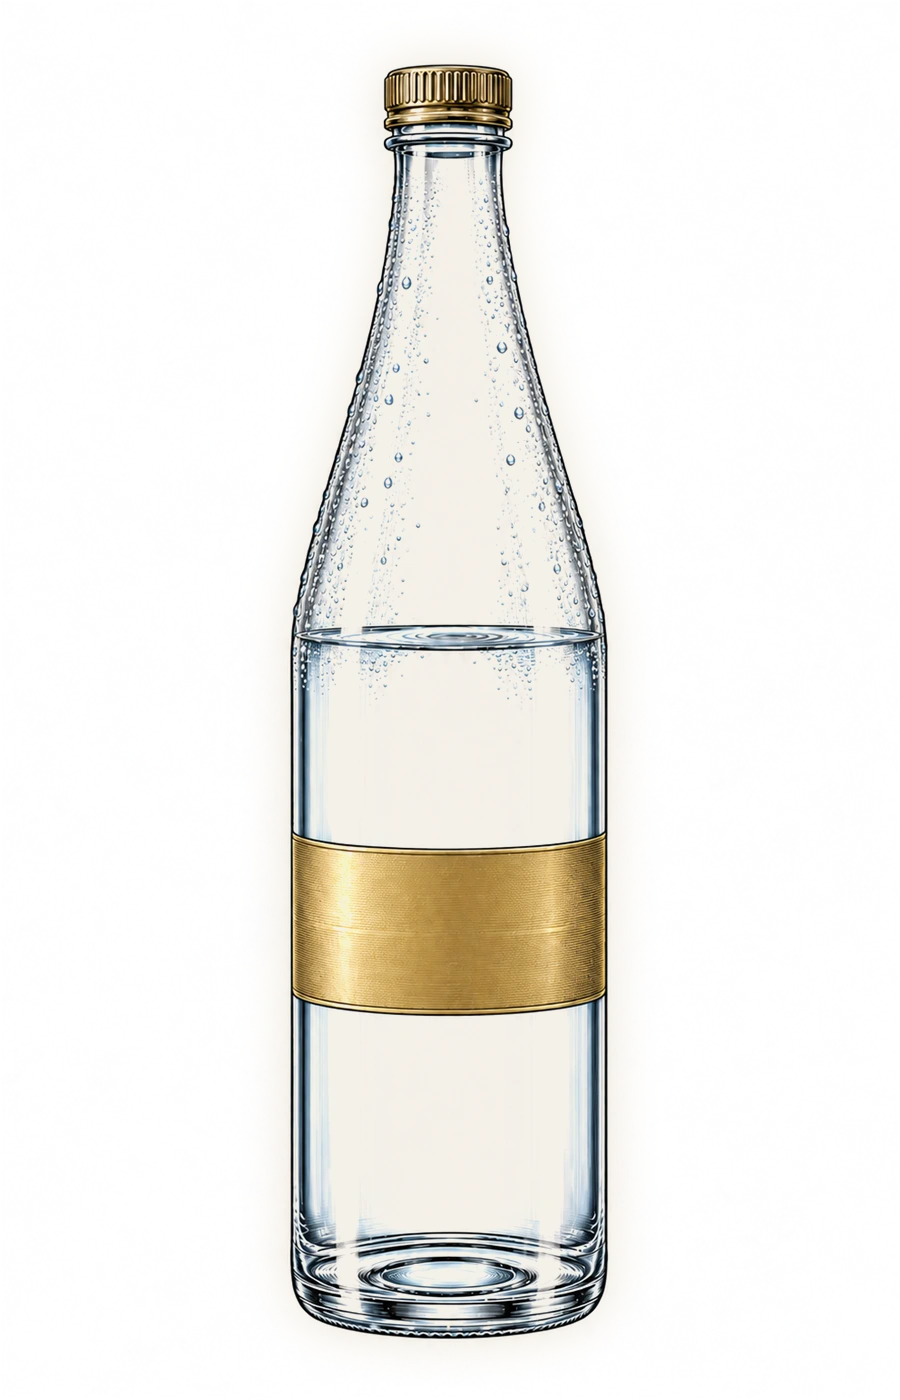
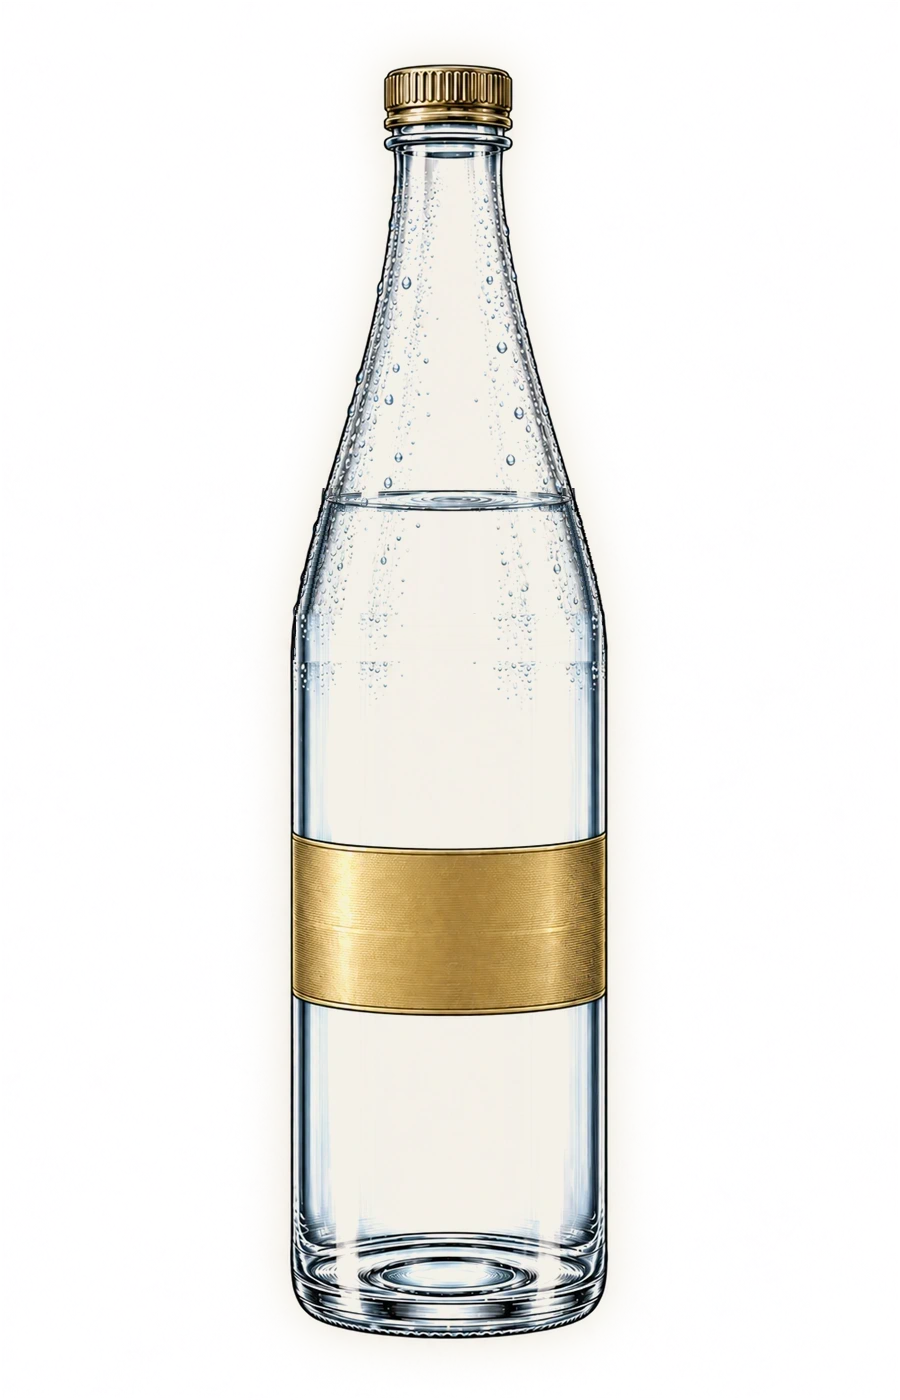
АЯРА: разные переходы, врезки, финал в небе

Changed region(s): [[0.3111, 0.3379, 0.6844, 0.4914]]

diff --git a/js/main.js b/js/main.js
@@ -37,12 +37,17 @@ window.GI_BRAND = {
 
   /* ---------- путь в гору: кадры друг над другом, камера поднимается по прокрутке ---------- */
   // мир в долях ширины кадра: x 0..1 слева направо, y снизу вверх. Кадры снизу вверх, на стыках облака.
-  var FH = 941 / 1672, GAP = 0.12;
+  var FH = 941 / 1672, GAP = 0.2;
   var FRAMES = [2, 4, 3, 5, 6].map(function (n, i) { return { n: n, y: i * (FH + GAP) }; });   // y — низ кадра
-  var TH = FRAMES.length * FH + (FRAMES.length - 1) * GAP;
-  var CLOUDS = FRAMES.slice(1).map(function (f, i) {         // на стыке: центр, ширина с запасом за края
-    return { y: f.y - GAP / 2, w: 1.24, h: 1.24 / 3 * 0.8, k: i % 3, flip: i % 2 === 1 };
+  var SKY = 0.75;                                       // чистое небо над источником — там финал
+  var TH = FRAMES.length * FH + (FRAMES.length - 1) * GAP + SKY;
+  // на стыках разные переходы (нарисовал Кодекс): скала с тропой, туман, скала, скала с водопадом от источника;
+  // над источником — облако, за ним небо с финалом. par — насколько быстрее горы едет при подъёме (ближе к камере)
+  var SEAMS = ["seam-1", "seam-2", "seam-3", "seam-4"];
+  var CLOUDS = FRAMES.slice(1).map(function (f, i) {
+    return { y: f.y - GAP / 2, w: 1.12, h: 1.12 / 3 * 0.9, src: SEAMS[i], par: i === 1 ? 0.12 : 0.05, flow: i === 3 };
   });
+  CLOUDS.push({ y: FRAMES[FRAMES.length - 1].y + FH + 0.04, w: 1.24, h: 1.24 / 3 * 0.8, src: "cloud-2", par: 0.18, flip: true });   // вход в небо
   // остановки: f — кадр, x, y — точка кадра в центре экрана (доли, y сверху), h — сколько высоты мира в кадре;
   // k — подпись и врезка (data-key), 0 — первый экран. Между остановками камера идёт сквозь облака, не стоит.
   var KEYS = [
@@ -51,15 +56,17 @@ window.GI_BRAND = {
     { f: 1, x: 0.57, y: 0.45, h: 0.5, k: 2 },
     { f: 2, x: 0.56, y: 0.45, h: 0.47, k: 3 },
     { f: 3, x: 0.55, y: 0.52, h: 0.5, k: 4 },
-    { f: 4, x: 0.5, y: 0.5, h: FH, k: 5 }
+    { f: 4, x: 0.5, y: 0.5, h: FH, k: 5 },
+    { sky: 1, k: 6 }
   ];
   var KEYS_PHONE = [
     { f: 0, x: 0.55, y: 0.5, h: 0.54, k: 0 },
     { f: 0, x: 0.58, y: 0.42, h: 0.46, k: 1 },
     { f: 1, x: 0.63, y: 0.45, h: 0.5, k: 2 },
-    { f: 2, x: 0.47, y: 0.36, h: 0.5, k: 3 },
+    { f: 2, x: 0.47, y: 0.3, h: 0.5, k: 3 },
     { f: 3, x: 0.55, y: 0.55, h: 0.52, k: 4 },
-    { f: 4, x: 0.38, y: 0.6, h: 0.52, k: 5 }
+    { f: 4, x: 0.38, y: 0.6, h: 0.52, k: 5 },
+    { sky: 1, k: 6 }
   ];
   var STEP = 1.3;                                       // экранов прокрутки между остановками
   var U = 1000;                                         // px на единицу мира в DOM-слое (дальше масштабирует transform)
@@ -68,7 +75,7 @@ window.GI_BRAND = {
   var worlds = tower.querySelectorAll(".tower__world");
   var hero = tower.querySelector(".hero");
   var hint = tower.querySelector(".scroll-hint");
-  var caps = Array.prototype.slice.call(tower.querySelectorAll(".cap[data-key], .inset[data-key]"));
+  var caps = Array.prototype.slice.call(tower.querySelectorAll(".cap[data-key], .inset[data-key], .final[data-key]"));
   var insets = Array.prototype.slice.call(tower.querySelectorAll(".inset"));
   var narrow = window.matchMedia("(max-width: 700px)");
   var cam = { x: 0.5, y: FH / 2, h: FH, w: 1, vy: 0 };
@@ -87,7 +94,7 @@ window.GI_BRAND = {
   CLOUDS.forEach(function (c) {
     var im = document.createElement("img");
     im.className = "tower__cloud";
-    im.src = "assets/cloud-" + (c.k + 1) + ".webp"; im.alt = ""; im.decoding = "async";
+    im.src = "assets/" + c.src + ".webp"; im.alt = ""; im.decoding = "async";
     im.style.cssText = "left:" + (0.5 - c.w / 2) * U + "px;top:" + top(c.y + c.h / 2) + "px;width:" + c.w * U + "px;height:" + c.h * U + "px" + (c.flip ? ";transform:scaleX(-1)" : "");
     worlds[0].appendChild(im);
   });
@@ -102,7 +109,10 @@ window.GI_BRAND = {
   function cr(a, b, c, d, t) {
     return b + 0.5 * t * (c - a + t * (2 * a - 5 * b + 4 * c - d + t * (3 * (b - c) + d - a)));
   }
-  function world(k) { var f = FRAMES[k.f]; return { x: k.x, y: f.y + (1 - k.y) * FH, h: k.h }; }
+  function world(k) {
+    if (k.sky) return { x: 0.5, y: TH - FH / 2, h: FH };
+    var f = FRAMES[k.f]; return { x: k.x, y: f.y + (1 - k.y) * FH, h: k.h };
+  }
   function target(keys, f) {                            // f — 0..n-1, место в прокрутке в «остановках»
     var n = keys.length, i = clamp(Math.floor(f), 0, n - 2), t = clamp(f - i, 0, 1);
     t = t + 0.35 * (t * t * (3 - 2 * t) - t);           // у подписи чуть медленнее, но не стоп
@@ -116,7 +126,7 @@ window.GI_BRAND = {
     // врезки: картинка кадра крупно, нужная точка — в центре рамки
     insets.forEach(function (el) {
       var at = el.getAttribute("data-at").split(",").map(Number), i = el.firstChild;
-      var w = el.clientWidth, h = el.clientHeight, iw = w * at[2], ih = iw * FH;
+      var w = el.clientWidth, h = el.clientHeight, iw = w * at[2], ih = iw * 0.75;   // врезки 4:3, как рамка
       i.style.backgroundImage = "url(" + el.getAttribute("data-src") + ")";
       i.style.width = iw + "px"; i.style.height = ih + "px";
       i.style.left = clamp(w / 2 - at[0] * iw, w - iw, 0) + "px";
@@ -164,16 +174,13 @@ window.GI_BRAND = {
     step(now);
   }
 
-  /* ---------- финал появляется по мере прокрутки ---------- */
-  function setupReveal() {
-    if (!final) return;
-    if (reduce || !("IntersectionObserver" in window)) { final.classList.add("is-in"); return; }
-    var io = new IntersectionObserver(function (entries) {
-      if (entries[0].isIntersecting) { final.classList.add("is-in"); io.disconnect(); }
-    }, { threshold: 0.4 });
-    io.observe(final);
-  }
-  var final = document.querySelector(".final");
+  /* ---------- ссылки «к бутылке»: финал внутри закреплённого экрана — прокручиваем до конца подъёма ---------- */
+  Array.prototype.forEach.call(document.querySelectorAll('a[href="#final"]'), function (a) {
+    a.addEventListener("click", function (e) {
+      e.preventDefault();
+      window.scrollTo({ top: tower.offsetTop + tower.offsetHeight - window.innerHeight, behavior: reduce ? "auto" : "smooth" });
+    });
+  });
 
   /* ---------- шапка: бумажная после первого экрана, прячется при прокрутке вниз ---------- */
   var bar = document.querySelector(".topbar"), lastY = window.scrollY;
@@ -206,7 +213,6 @@ window.GI_BRAND = {
   /* ---------- запуск ---------- */
   applyBrand();
   Array.prototype.forEach.call(document.querySelectorAll(".bottle"), setupBottle);
-  setupReveal();
   layout();
   step(performance.now());                              // первый экран сразу на месте, не ждём кадра
   narrow.addEventListener ? narrow.addEventListener("change", layout) : narrow.addListener(layout);

diff --git a/index.html b/index.html
@@ -60,35 +60,37 @@
       <p class="cap" data-key="4">Палка осталась на&nbsp;камне.<br> Вниз он шёл налегке.</p>
       <p class="cap cap--brand cap--r" data-key="5"><span data-brand>АЯРА</span>.<br> Пей и&nbsp;иди легче.</p>
 
-      <!-- врезки крупным планом, как в комиксе: кадр, точка (доли кадра), увеличение -->
-      <div class="inset" data-key="1" data-src="assets/scene-02.webp" data-at=".585,.22,3.2" aria-hidden="true"><i></i></div>
-      <div class="inset" data-key="2" data-src="assets/scene-04.webp" data-at=".69,.19,3.6" aria-hidden="true"><i></i></div>
-      <div class="inset" data-key="3" data-src="assets/scene-03.webp" data-at=".53,.31,3.2" aria-hidden="true"><i></i></div>
-      <div class="inset" data-key="4" data-src="assets/scene-05.webp" data-at=".42,.8,3.4" aria-hidden="true"><i></i></div>
-      <div class="inset inset--l" data-key="5" data-src="assets/scene-06.webp" data-at=".79,.6,3" aria-hidden="true"><i></i></div>
+      <!-- врезки крупным планом, как в комиксе (нарисовал Кодекс): картинка, точка в центре рамки, увеличение -->
+      <div class="inset" data-key="1" data-src="assets/inset-1.webp" data-at=".5,.5,1" aria-hidden="true"><i></i></div>
+      <div class="inset" data-key="2" data-src="assets/inset-2.webp" data-at=".5,.5,1" aria-hidden="true"><i></i></div>
+      <div class="inset" data-key="3" data-src="assets/inset-3.webp" data-at=".5,.5,1" aria-hidden="true"><i></i></div>
+      <div class="inset" data-key="4" data-src="assets/inset-4.webp" data-at=".5,.5,1" aria-hidden="true"><i></i></div>
+      <div class="inset inset--l" data-key="5" data-src="assets/inset-5.webp" data-at=".5,.5,1" aria-hidden="true"><i></i></div>
+
+      <!-- финал: над источником, в чистом небе — камера поднимается к нему, а не уезжает вниз -->
+      <section class="final" id="final" data-key="6" aria-labelledby="final-title">
+        <div class="final__inner">
+          <div class="bottle final__bottle">
+            <img class="bottle__img" src="assets/bottle-azau.webp" loading="lazy" decoding="async" alt="Бутылка питьевой воды «АЯРА»">
+            <div class="bottle__label" aria-hidden="true"><small>Чистое золото Эльбруса</small></div>
+              <div class="bottle__mark" aria-hidden="true"><b>АЯРА</b></div>
+          </div>
+          <div class="final__copy">
+            <p class="final__sub">Чистое золото Эльбруса</p>
+            <h2 id="final-title" class="final__title">Вода из&nbsp;горного источника. Пьёшь&nbsp;— и&nbsp;путь становится легче.</h2>
+            <a class="btn btn--big" href="#">ПОПРОБОВАТЬ ЛЁГКОСТЬ</a>
+            <ul class="benefits">
+              <li><svg viewBox="0 0 40 40" aria-hidden="true"><path d="M3 34 L16 10 L23 21 L27 15 L37 34Z" fill="none" stroke="currentColor" stroke-width="2.4" stroke-linejoin="round"/><path d="M16 10 L13 17 M27 15 L25 20" stroke="currentColor" stroke-width="2"/></svg>Из горного источника</li>
+              <li><svg viewBox="0 0 40 40" aria-hidden="true"><path d="M20 4 C 12 16 8 22 8 27 a12 12 0 0 0 24 0 C32 22 28 16 20 4Z" fill="#3f6f8f"/><path d="M14 27 q1 5 6 6" stroke="#f4f0e6" stroke-width="2.5" fill="none" stroke-linecap="round"/></svg>Чистый вкус</li>
+              <li><svg viewBox="0 0 40 40" aria-hidden="true"><path d="M4 34 C14 30 18 22 22 16 S 32 6 37 5" stroke="currentColor" stroke-width="2.6" fill="none" stroke-linecap="round" stroke-dasharray="6 5"/><circle cx="35" cy="7" r="4" fill="#c82924"/></svg>Лёгкость в&nbsp;каждом глотке</li>
+            </ul>
+          </div>
+        </div>
+      </section>
     </div>
   </section>
 
-  <!-- финал -->
-  <section class="final" id="final" aria-labelledby="final-title">
-    <div class="final__inner">
-      <div class="bottle final__bottle">
-        <img class="bottle__img" src="assets/bottle-azau.webp" loading="lazy" decoding="async" alt="Бутылка питьевой воды «АЯРА»">
-        <div class="bottle__label" aria-hidden="true"><small>Чистое золото Эльбруса</small></div>
-          <div class="bottle__mark" aria-hidden="true"><b>АЯРА</b></div>
-      </div>
-      <div class="final__copy">
-        <p class="final__sub">Чистое золото Эльбруса</p>
-        <h2 id="final-title" class="final__title">Вода из&nbsp;горного источника. Пьёшь&nbsp;— и&nbsp;путь становится легче.</h2>
-        <a class="btn btn--big" href="#">ПОПРОБОВАТЬ ЛЁГКОСТЬ</a>
-        <ul class="benefits">
-          <li><svg viewBox="0 0 40 40" aria-hidden="true"><path d="M3 34 L16 10 L23 21 L27 15 L37 34Z" fill="none" stroke="currentColor" stroke-width="2.4" stroke-linejoin="round"/><path d="M16 10 L13 17 M27 15 L25 20" stroke="currentColor" stroke-width="2"/></svg>Из горного источника</li>
-          <li><svg viewBox="0 0 40 40" aria-hidden="true"><path d="M20 4 C 12 16 8 22 8 27 a12 12 0 0 0 24 0 C32 22 28 16 20 4Z" fill="#3f6f8f"/><path d="M14 27 q1 5 6 6" stroke="#f4f0e6" stroke-width="2.5" fill="none" stroke-linecap="round"/></svg>Чистый вкус</li>
-          <li><svg viewBox="0 0 40 40" aria-hidden="true"><path d="M4 34 C14 30 18 22 22 16 S 32 6 37 5" stroke="currentColor" stroke-width="2.6" fill="none" stroke-linecap="round" stroke-dasharray="6 5"/><circle cx="35" cy="7" r="4" fill="#c82924"/></svg>Лёгкость в&nbsp;каждом глотке</li>
-        </ul>
-      </div>
-    </div>
-  </section>
+
 
 </main>
 

diff --git a/js/live.js b/js/live.js
@@ -38,7 +38,8 @@
         var b = "assets/live/s" + (i + 1);
         return { plate: b + "-plate.webp", aux: b + "-aux.png", fig: f ? b + "-fig.webp" : null };
       });
-      window.GI_CLOUDS = [1, 2, 3].map(function (k) { return "assets/cloud-" + k + ".webp"; });
+      window.GI_CLOUDS = {};
+      window.GI_TOWER.CLOUDS.forEach(function (c) { window.GI_CLOUDS[c.src] = "assets/" + c.src + ".webp"; });
       init();
     });
   }
@@ -46,7 +47,7 @@
   else window.addEventListener("load", function () { setTimeout(start, 300); });
 
   function init() {
-    var L = window.GI_LIVE, LC = window.GI_CLOUDS || [];
+    var L = window.GI_LIVE, LC = window.GI_CLOUDS || {};
     if (!L || !window.THREE) return;
     var THREE = window.THREE;
     var T = window.GI_TOWER, cam = T.cam, FH = T.FH;
@@ -201,8 +202,25 @@
 
     // облака на стыках: выше всего, плывут и при подъёме камеры едут быстрее горы (они ближе)
     var cloudGeo = new THREE.PlaneGeometry(1, 1);
+    // полоса стыка; у водопада по синему бегут блики вниз, как у воды в кадрах
+    var SEAM = [
+      "uniform sampler2D tMap; uniform float uTime; uniform float uFlow; varying vec2 vS;",
+      "float h(vec2 p){ return fract(sin(dot(p, vec2(127.1, 311.7))) * 43758.5453); }",
+      "float n2(vec2 p){ vec2 i = floor(p), f = fract(p); f = f*f*(3.0-2.0*f);",
+      "  return mix(mix(h(i), h(i+vec2(1,0)), f.x), mix(h(i+vec2(0,1)), h(i+vec2(1,1)), f.x), f.y); }",
+      "void main(){ vec4 c = texture2D(tMap, vS);",
+      "  if (uFlow > 0.5) {",
+      "    float w = smoothstep(0.08, 0.2, c.b - c.r) * c.a;",
+      "    float s = n2(vec2(vS.x * 260.0, vS.y * 22.0 + uTime * 3.5));",
+      "    c.rgb = mix(c.rgb, mix(c.rgb, vec3(0.96), smoothstep(0.55, 0.85, s) * 0.85), w);",
+      "  }",
+      "  gl_FragColor = c; }"
+    ].join("\n");
     var clouds = T.CLOUDS.map(function (c) {
-      var m = new THREE.Mesh(cloudGeo, new THREE.MeshBasicMaterial({ map: BLANK, transparent: true, depthTest: false }));
+      var m = new THREE.Mesh(cloudGeo, new THREE.ShaderMaterial({
+        uniforms: { tMap: { value: BLANK }, uTime: G.uTime, uFlow: { value: c.flow ? 1 : 0 } },
+        transparent: true, depthTest: false, vertexShader: VS, fragmentShader: SEAM
+      }));
       m.scale.set(c.flip ? -c.w : c.w, c.h, 1);
       m.position.set(0.5, c.y, 0.5);
       m.renderOrder = 2; m.visible = false;
@@ -280,8 +298,8 @@
       it.t = null; it.ready = false;
     }
     clouds.forEach(function (o) {
-      var src = LC[o.c.k];
-      if (src) pic(src, function (bm) { o.m.material.map = tex(bm); o.m.material.needsUpdate = true; o.ready = true; });
+      var src = LC[o.c.src];
+      if (src) pic(src, function (bm) { o.m.material.uniforms.tMap.value = tex(bm); o.ready = true; });
     });
 
     var W = 0, H = 0;
@@ -333,8 +351,8 @@
       });
       clouds.forEach(function (o) {
         o.m.visible = o.ready && Math.abs(o.c.y - cam.y) < cam.h + o.c.h;
-        o.m.position.y = o.c.y - (cam.y - o.c.y) * 0.18;  // ближе горы: при подъёме уходит вниз быстрее
-        o.m.position.x = 0.5 + 0.015 * Math.sin(t * 0.05 + o.c.k * 2.1);
+        o.m.position.y = o.c.y - (cam.y - o.c.y) * o.c.par;   // ближе горы: при подъёме уходит вниз быстрее
+        if (o.c.src.indexOf("cloud") === 0) o.m.position.x = 0.5 + 0.015 * Math.sin(t * 0.05);   // облако плывёт, скала стоит
       });
       motes.visible = any;
       renderer.render(scene, ocam);

diff --git a/css/style.css b/css/style.css
@@ -109,7 +109,10 @@ html:not(.js) .tower__stick{position:relative}
 .scene__bottle::after{content:"";position:absolute;z-index:-1;left:6%;right:-4%;bottom:3.4%;height:3%;border-radius:50%;background:var(--ink);opacity:.32;filter:blur(2px)}
 
 /* ---------- финал ---------- */
-.final{position:relative;z-index:2;min-height:100vh;min-height:100svh;background:var(--paper);display:grid;place-items:center;padding:clamp(56px,6vh,80px) var(--gut);box-shadow:0 -18px 36px -18px rgba(29,29,29,.22)}
+.final{position:absolute;inset:0;z-index:3;background:var(--paper);display:grid;place-items:center;padding:clamp(56px,6vh,80px) var(--gut);overflow:hidden}
+/* финал проявляется, когда камера поднялась в небо над источником (js/main.js, data-key=6) */
+.js .final{opacity:0;visibility:hidden;transition:opacity .9s var(--ease),visibility 0s .9s}
+.js .final.is-in{opacity:1;visibility:visible;transition:opacity .9s var(--ease)}
 .final__inner{display:grid;grid-template-columns:auto minmax(0,38rem);gap:clamp(28px,6vw,110px);align-items:center;max-width:72rem}
 .final__bottle{--bh:min(84svh,760px)}
 .final__sub{margin:0 0 1.2rem;font:700 .76rem/1.4 var(--sans);letter-spacing:.18em;text-transform:uppercase;color:var(--blue)}
@@ -144,7 +147,11 @@ html:not(.js) .tower__stick{position:relative}
   .tower .cap{top:auto;bottom:24px}
   .inset,.inset--l{width:46cqw;left:auto;right:20px;bottom:auto;top:66px}
   .final__inner{grid-template-columns:1fr;justify-items:center;text-align:left}
-  .final__bottle{--bh:min(50svh,400px)}
+  .final{padding:64px 20px 28px}
+  .final__inner{gap:18px}
+  .final__bottle{--bh:min(34svh,300px)}
+  .final__title{font-size:1.75rem;margin-bottom:1.2rem}
+  .benefits{margin-top:1.2rem}
   .benefits{flex-direction:column;gap:.5rem}
   .benefits li+li::before{content:none}
 }
